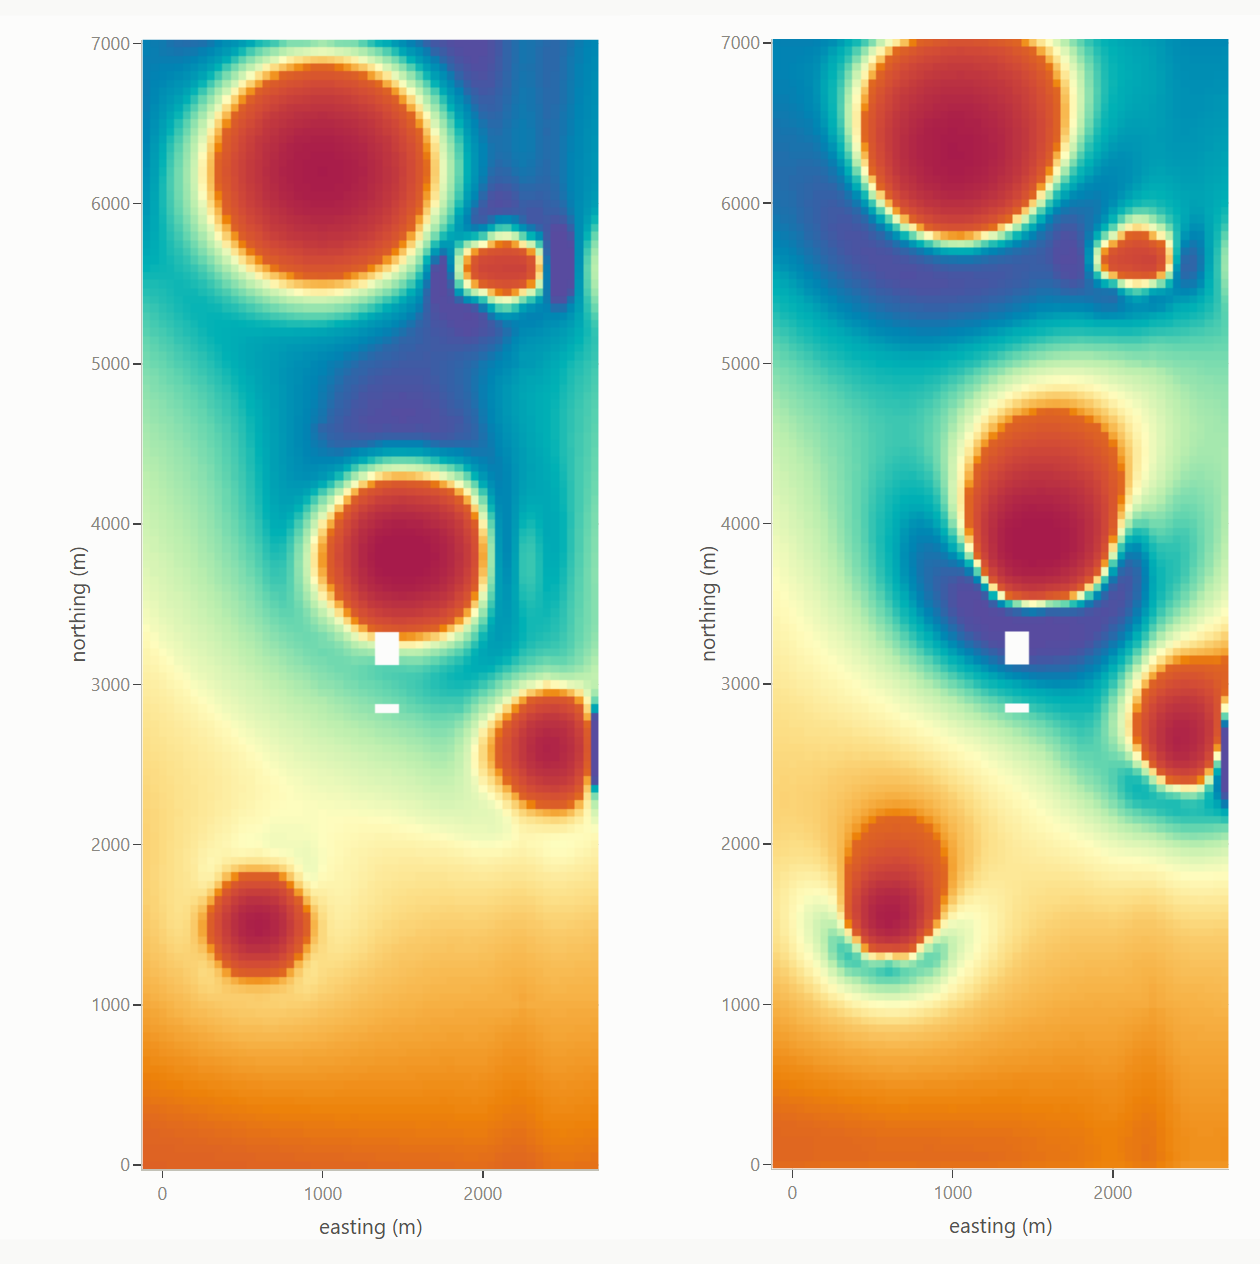
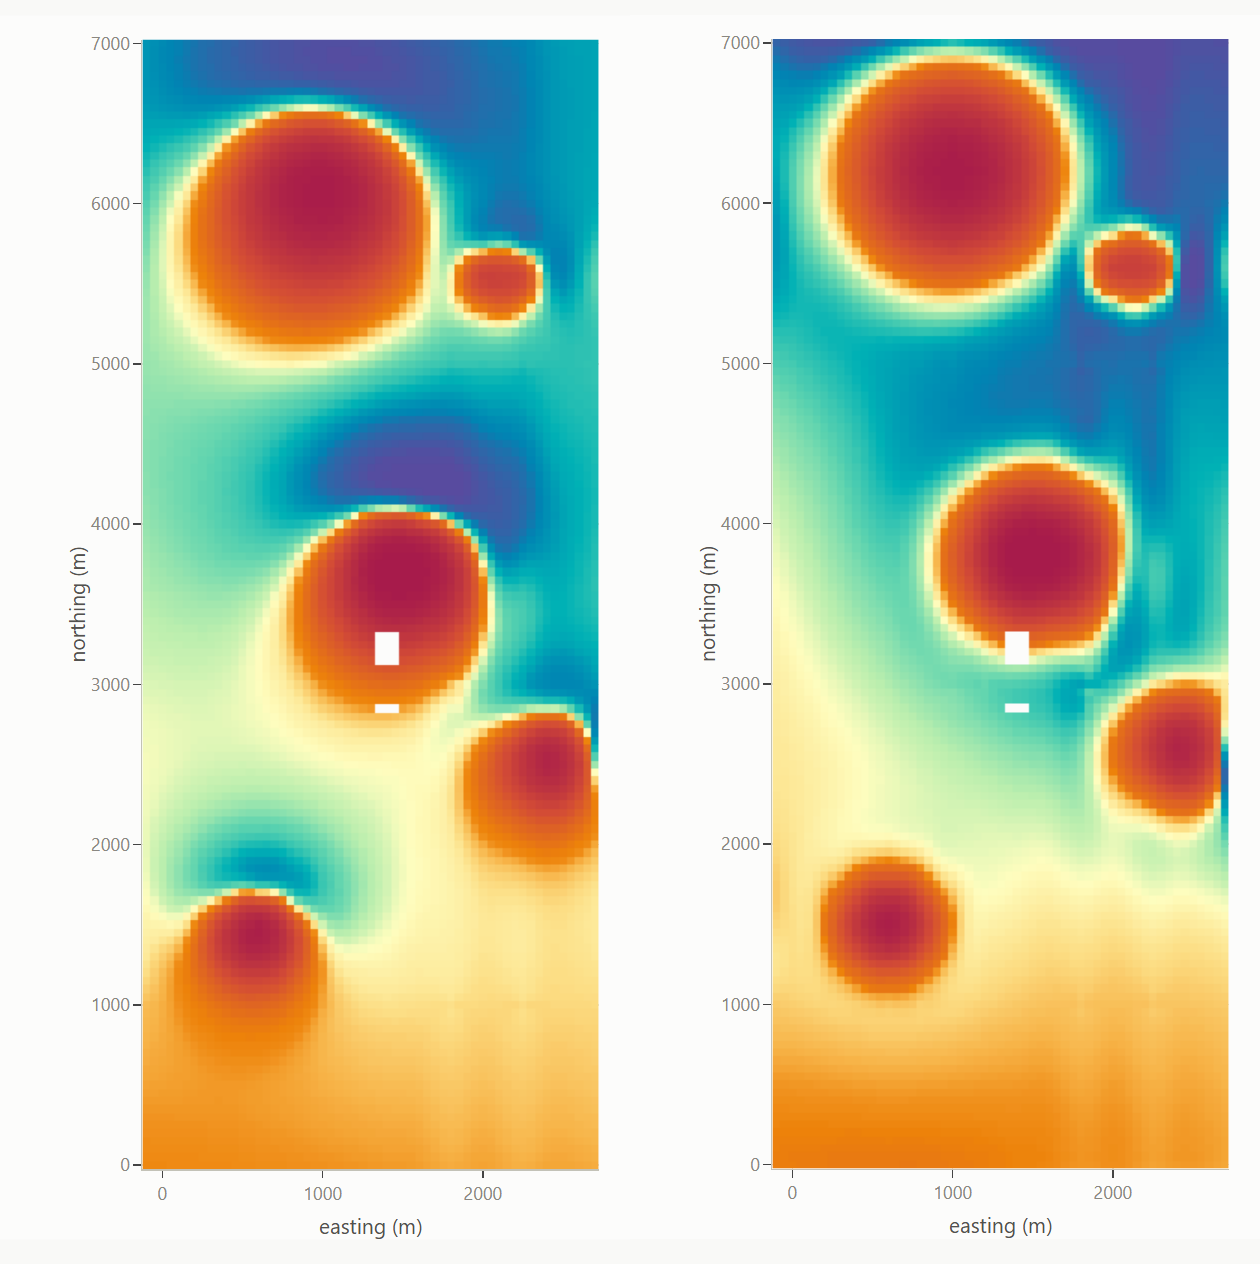
Simulator: anomalies are induced dipoles in the local field direction
The five sources were symmetric pole-shaped bumps, so reducing the demo to
the pole introduced the very asymmetry RTP exists to remove. They are now
point dipoles magnetised along (inclination, declination) - defaults 68 /
10 degrees, the IGRF at the default origin - observed at sensor height, via
the same .dipole_anomaly() the RTP tests use, with the moment scaled so a
vertical field would give the documented peak. The residual grid now shows
each anomaly with its northern low and the pole-reduced grid is symmetric.

Demo numbers moved slightly (crossover RMS 1.87 -> 0.27 nT after
levelling; grid RMS fit 0.69 nT); README outputs and figures refreshed.
One test limit loosened where two injected spikes now stack within a few
samples. 391 expectations.

diff --git a/README.md b/README.md
@@ -20,22 +20,23 @@ remotes::install_github("mjorden/magqc")
 library(magqc)
 
 sim <- sim_survey()                 # 17 lines, 106 line-km, nine kinds of defect
-res <- run_qc(sim)                  # diurnal correction, crossovers, ten checks
+res <- run_qc(sim)                  # diurnal correction, eleven checks, levelling, IGRF, grid, RTP
 res
 #> <magqc result>
 #>   17,568 samples, 17 lines, 106.3 line-km, 0.9 h of flying
-#>   1 of 10 checks passed; 12.6 line-km flagged (88.2% accepted)
+#>   2 of 11 checks passed; 12.6 line-km flagged (88.2% accepted)
 #>
-#>   FAIL  Data gaps                longest gap (s) = 12.2           1 flag(s)
+#>   FAIL  Data gaps                longest gap (s) = 12.1           1 flag(s)
 #>   FAIL  Along-line sampling      max sample spacing (m) = 12      1 flag(s)
-#>   FAIL  Departure from line      95th pct departure (m) = 9.53    1 flag(s)
+#>   FAIL  Departure from line      95th pct departure (m) = 9.56    1 flag(s)
 #>   FAIL  Line separation          max separation error (%) = 30    2 flag(s)
 #>   FAIL  Terrain clearance        95th pct |clearance error| (m) = 5.95 1 flag(s)
 #>   FAIL  Spikes                   spike count = 25                 25 flag(s)
-#>   FAIL  Fourth-difference noise  max |4th difference| (nT) = 0.321 47 flag(s)
+#>   FAIL  Fourth-difference noise  max |4th difference| (nT) = 0.321 48 flag(s)
 #>   FAIL  Diurnal variation        max chord departure (nT) = 11.3  2 flag(s)
-#>   PASS  Crossover misfit         RMS crossover misfit (nT) = 1.69
-#>   FAIL  Heading error            heading error (nT) = 2.41        1 flag(s)
+#>   PASS  Crossover misfit         RMS crossover misfit (nT) = 1.87
+#>   FAIL  Heading error            heading error (nT) = 2.64        1 flag(s)
+#>   PASS  Post-levelling residual  RMS misfit after levelling (nT) = 0.268
 
 qc_report(res, "magqc-report.html", title = "Block A acceptance QA/QC")
 ```
@@ -100,12 +101,12 @@ full 3.7 MB library; offline, the full library is embedded and the file is
 res$levelling
 #> <magqc tie-line levelling>
 #>   linear corrections on 14 traverses (13 linear, 1 constant, 0 without crossovers)
-#>   crossover RMS: 1.69 nT before, 0.15 nT after (41 crossovers)
+#>   crossover RMS: 1.87 nT before, 0.27 nT after (41 crossovers)
 lev <- level_ties(res, order = "constant")   # or run it standalone on a survey
 lev$coefficients                              # line, order, n_crossovers, c0 (nT), c1 (nT/m)
 ```
 
-![Crossover misfit before (filled) and after (open) levelling; the southbound heading bias is the whole story](man/figures/report-crossovers.png)
+![Crossover misfit before (filled) and after (open) levelling; the southbound heading bias is most of the story](man/figures/report-crossovers.png)
 
 `run_qc()` levels by default when tie lines exist: each traverse gets a
 least-squares offset (plus a drift term in distance along the line when it
@@ -120,7 +121,7 @@ heading-error check keep operating on the unlevelled field.
 
 ```r
 res$igrf
-#> $model "igrf 1.0"  $epoch 2024.45  $altitude 60  $F 52642  $I 68.1  $D 9.8
+#> $model "igrf 1.0"  $epoch 2024.45  $altitude 1581  $F 52659  $I 68.2  $D 9.8
 igrf_field(-108.5, 43.2, as.POSIXct("2024-06-14", tz = "UTC"), altitude = 1600)
 ```
 
@@ -137,8 +138,8 @@ constant offset - the map shows the anomalies either way.
 ```r
 res$grid
 #> <magqc grid>
-#>   mag_lev: 59 x 143 nodes at 50 m (mincurv), 0 of 8437 blanked
-#>   17569 samples; RMS fit 1.19 nT; range 53987.9 to 54318.4 nT
+#>   mag_res: 57 x 141 nodes at 50 m (mincurv), 15 of 8037 blanked
+#>   17544 samples (25 flagged spikes excluded); RMS fit 0.69 nT; range 1338.1 to 1640.7 nT
 g <- grid_field(res, cell = 25, method = "idw")   # or grid any channel yourself
 plot_grid(res)
 ```
@@ -167,8 +168,8 @@ surface that reduction to the pole will operate on.
 ```r
 res$rtp
 #> <magqc grid, reduced to the pole>
-#>   57 x 141 nodes at 50 m; I 68.1 deg, D 9.8 deg (amplitude inclination 68 deg); ...
-r <- reduce_to_pole(res$grid, inclination = 68.1, declination = 9.8)
+#>   57 x 141 nodes at 50 m; I 68.2 deg, D 9.8 deg (amplitude inclination 68 deg); range 1356.0 to 1669.0 nT
+r <- reduce_to_pole(res$grid, inclination = 68.2, declination = 9.8)
 plot_grid(res, "rtp")
 ```
 
@@ -186,7 +187,7 @@ matches the same dipole computed in a vertical field (r > 0.995, RMS < 3 %
 of range) and peaks within a cell of the source. On the map it is the
 "Reduced to pole" layer, off by default so it does not cover the residual.
 
-![The residual (left) and the same grid reduced to the pole (right): anomalies move onto their sources and lose the northern low](man/figures/report-rtp.png)
+![The residual (left) and the same grid reduced to the pole (right): the anomalies of dipoles induced in a 68° field move onto their sources and lose their northern lows](man/figures/report-rtp.png)
 
 ## Interactive viewer
 
@@ -239,8 +240,10 @@ against the plan instead of a best-fit axis.
 ## The simulated survey
 
 `sim_survey()` flies a block of traverse and tie lines over a synthetic
-terrain and magnetic field (five buried sources, a regional gradient, a
-diurnal curve with a 1 Hz base-station record) and injects:
+terrain and magnetic field (five buried dipoles magnetised along the local
+field direction - I 68°, D 10° by default, so their anomalies have the real
+inclined-field asymmetry that reduction to the pole removes - a regional
+gradient, and a diurnal curve with a 1 Hz base-station record) and injects:
 
 | Defect | Where | Caught by |
 |---|---|---|
